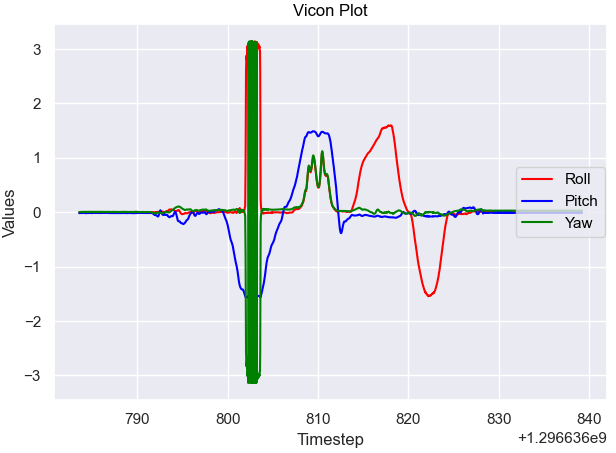
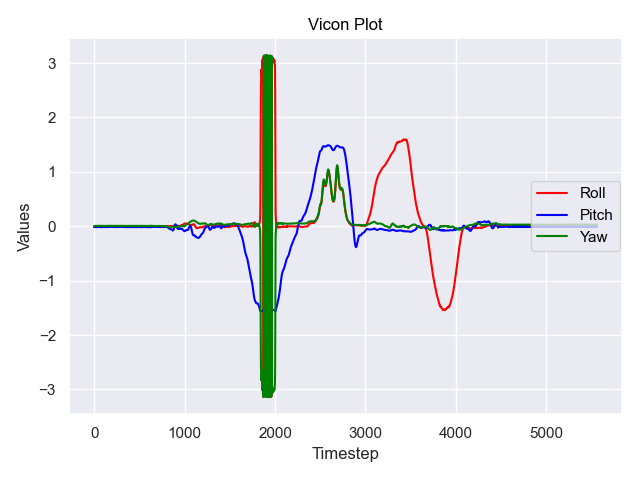
stuff

diff --git a/CS-6501_Behl/algorithm/hw2_p2_data/estimate_rot.py b/CS-6501_Behl/algorithm/hw2_p2_data/estimate_rot.py
@@ -30,14 +30,13 @@ def estimate_rot(data_num=1):
 
     rotation_matrices = vicon['rots']
     T_vicon = vicon['ts']
-
     # your code goes here
 
     # b)
         # plot vicon
     vicon_plot, roll, pitch, yaw = plotting_utils.plot_vicon_data(rotation_matrices, T_vicon)
-    # vicon_plot.show()
-    calibrate_sensors(accel, gyro, imu['ts'], rotation_matrices, T_vicon[0])
+    vicon_plot.show()
+    calibrate_sensors(accel, gyro, imu['ts'], T_vicon[0], roll, pitch, yaw)
 
     return None
 
@@ -45,7 +44,7 @@ def estimate_rot(data_num=1):
     # return roll,pitch,yaw
 
 # b)
-def calibrate_sensors(accel, gyro, imu_T, rotation_matrices, vicon_T):
+def calibrate_sensors(accel, gyro, imu_T, vicon_T, roll, pitch, yaw):
     imu_timesteps = imu_T[0]
     # plot the data
     # vicon_plot, roll, pitch, yaw = plotting_utils.plot_vicon_data(rotation_matrices = rotation_matrices, T = vicon_T)
@@ -53,13 +52,14 @@ def calibrate_sensors(accel, gyro, imu_T, rotation_matrices, vicon_T):
     gyro_plot.show()
 
     Ax, Ay, Az, Wx, Wy, Wz = helpful_utils.parse_data(accel, gyro)
-    
-    # calibrate the sensors at during stationary period
-    best_param = calibrate_accelerometer(Ax, Ay, Az, rotation_matrices, vicon_T, imu_timesteps) 
-    print(best_param)
+
+    accel_params = calibrate_accelerometer(Ax, Ay, Az, roll, pitch, yaw)
+    print(accel_params)
+    calibrate_gyroscope(roll, pitch, yaw, Wx, Wy, Wz, vicon_T)
+    set_times = np.arange(len(Ax))
         
     # accel_plot = plotting_utils.plot_accelerometer(Ax, Ay, Az, imu_T[0], conversion_param=best_param, transformed=True)
-    orientation_plot = plotting_utils.plot_orientations(Ax, Ay, Az, imu_T[0], best_param)
+    orientation_plot = plotting_utils.plot_orientations(Ax, Ay, Az, set_times, accel_params)
     # looking at the graph, the drone seems to be in stationary state with linear or angular acceleration
     # Therefore, the bias, would simply be the sequence of numbers in the first part of graph
 
@@ -71,33 +71,43 @@ def calibrate_sensors(accel, gyro, imu_T, rotation_matrices, vicon_T):
     return None
 
 # use least-squares fitting for parameter estimation
-def calibrate_accelerometer(Ax, Ay, Az, rotation_matrices, vicon_timesteps, imu_timesteps):
+def calibrate_accelerometer(Ax, Ay, Az, roll, pitch, yaw):
 
     # initial setup
-    vicon_interpolated = helpful_utils.interpolate_rotations(rotation_matrices = rotation_matrices, vicon_T = vicon_timesteps, imu_T = imu_timesteps)
 
-    g_vector = np.array([0, 0, -9.81]) # gravity vector
-
-    true_Ax = []
-    true_Ay = []
-    true_Az = []
-
-    for timestep in range(len(imu_timesteps)):
-        ground_truth = np.matmul(vicon_interpolated[:, :, timestep], g_vector.T)
-
-        true_Ax.append(ground_truth[0])
-        true_Ay.append(ground_truth[1])
-        true_Az.append(ground_truth[2])
-    
-    true_Ax = np.array(true_Ax)
-    true_Ay = np.array(true_Ay)
-    true_Az = np.array(true_Az)
-
+    # 1. Calibrate bias of ax and ay using stationary period (:700)
     beta_x = np.mean(Ax[:700])
     beta_y = np.mean(Ay[:700])
-    beta_z = np.mean(Az[:700])
+    beta_z = np.mean(Az[1900:2000]) # where the x-axis = g
+
+    # print(beta_x, beta_y, beta_z)
     
-    best_param = least_squares(net_force_error, [1, 1, 1], args = (Ax[700:], Ay[700:], Az[700:], true_Ax[700:], true_Ay[700:], true_Az[700:], beta_x, beta_y, beta_z))
+    # 2. Compute the sensitivities
+    average_z = np.mean(Az[:700])
+    alpha_z = (average_z - beta_z) * (3300/1023)
+    
+    average_y = np.mean(Ay[3700:4100])
+    alpha_y = (average_y - beta_y) * (3300/1023)
+
+    average_x = np.mean(Ax[1900:2000])
+    alpha_x = (average_x - beta_x) * (3300/1023)
+
+    
+    print(alpha_x, alpha_y, alpha_z)
+
+    # best_params = least_squares(magnitude_residual, [100, 100, 100, beta_x], args = (Ax[:700], Ay[:700], Az[:700], beta_x, beta_y))
+    # 2. Calibrate sensitivity of ax and ay using the dynamic portion of the data
+    # sum_y = 0
+    # for i in range(10):
+    #     random_idx = np.random.choice(np.arange(1800, 4100)) # pick random point from dynamic portion
+    #     ay = - 9.81 * np.sin(roll[random_idx])
+    #     sensitivity_test_point = (3300 * (Ay[random_idx] - beta_y)) / (ay * 1023)
+    #     sum_y += sensitivity_test_point
+
+    # alpha_y = sum_y / 10
+    # print(beta_x, beta_y, alpha_y)
+   
+    
 
     # # get the average of the stationary period of each linear acceleration
     # beta_x = np.average(Ax[:stationary_period])
@@ -110,27 +120,57 @@ def calibrate_accelerometer(Ax, Ay, Az, rotation_matrices, vicon_timesteps, imu_
     # best_params = results["x"]
     # best_params = np.concatenate((best_params, np.array([beta_x, beta_y, beta_z])))
 
-    return np.concatenate((best_param["x"], [beta_x], [beta_y], [beta_z]))
+    return np.array([alpha_x, beta_x, alpha_y, beta_y, alpha_z, beta_z])
 
-def calibrate_gyroscope():
-    
+def calibrate_gyroscope(roll, pitch, yaw, Wx, Wy, Wz, vicon_T):
+
+    d_wx = np.gradient(roll, 1)
+    d_wy = np.gradient(pitch, 1)
+    d_wz = np.gradient(yaw, 1)
+    print(max(d_wx))
+    plt.plot(np.arange(len(d_wx)), d_wx, label = "X")
+    plt.plot(np.arange(len(d_wx)), d_wy, label = "Y")
+    plt.plot(np.arange(len(d_wx)), d_wz, label = "Z")
+
+    plt.legend()
+
+    plt.show()
+
+
     return None
 
-# helper functions
-def net_force_error(parameters, Ax, Ay, Az, true_Ax, true_Ay, true_Az, beta_x, beta_y, beta_z): # these are the raw ax, ay, and az
-    
-    alpha_x, alpha_y, alpha_z = parameters
 
-    convert_Ax = -helpful_utils.convert_raw_to_value(Ax, alpha_x, beta_x)
-    convert_Ay = -helpful_utils.convert_raw_to_value(Ay, alpha_y, beta_y)
-    convert_Az = helpful_utils.convert_raw_to_value(Az, alpha_z, beta_z)
 
-    # error = np.concatenate([true_Ax - convert_Ax, true_Ay - convert_Ay, true_Az - convert_Az])
-    mag = np.sqrt(convert_Ax**2 + convert_Ay**2 + convert_Az**2)
-    avg_mag = np.mean(mag)
-    error = np.sqrt((avg_mag - 9.81)**2)
-    
+def magnitude_residual(params, Ax, Ay, Az, beta_x, beta_y):
+
+    alpha_x, alpha_y, alpha_z, beta_z = params
+    num_timesteps = len(Ax)
+    magnitudes = []
+
+    for timestep in range(num_timesteps):
+        ax = helpful_utils.convert_raw_to_value(Ax[timestep], alpha_x, beta_x)
+        ay = helpful_utils.convert_raw_to_value(Ay[timestep], alpha_y, beta_y)
+        magnitudes.append(np.sqrt(ax**2 + ay**2 + 9.81**2))
+
+    avg_mag = (np.array(magnitudes) - 9.81) ** 2
+    error = np.sum(avg_mag)
+
     return error
+
+def calibrate_z(params, Az, stationary_period = 700):
+    alpha_z, beta_z = params
+
+    num_timesteps = len(Az)
+
+    az = helpful_utils.convert_raw_to_value(raw = az, alpha = alpha_z, beta = beta_z)
+
+    mag = np.sqrt(az**2)
+    error = np.sqrt((mag - 9.81)**2)
+
+
+
+
+
 
 # call the function
 estimate_rot()

diff --git a/CS-6501_Behl/algorithm/hw2_p2_data/plotting_utils.py b/CS-6501_Behl/algorithm/hw2_p2_data/plotting_utils.py
@@ -12,6 +12,7 @@ import helpful_utils
 def plot_vicon_data(rotation_matrices, T):
     quaternion = Quaternion()
     num_timesteps = T.shape[1]
+    timesteps = np.arange(num_timesteps)
 
     roll = []
     pitch = []
@@ -30,9 +31,9 @@ def plot_vicon_data(rotation_matrices, T):
 
     vicon_plot = (
         so.Plot()
-        .add(so.Line(color = "red"), x = T[0], y = roll, label = "Roll")
-        .add(so.Line(color = "blue"), x = T[0], y = pitch, label = "Pitch")
-        .add(so.Line(color = "green"), x = T[0], y = yaw, label = "Yaw")
+        .add(so.Line(color = "red"), x = timesteps, y = roll, label = "Roll")
+        .add(so.Line(color = "blue"), x = timesteps, y = pitch, label = "Pitch")
+        .add(so.Line(color = "green"), x = timesteps, y = yaw, label = "Yaw")
         .label(
             x = "Timestep",
             y = "Values",
@@ -95,14 +96,14 @@ def plot_accelerometer(Ax, Ay, Az, T, conversion_param = [1, 2, 3, 4, 5, 6], tra
 
 def plot_orientations(Ax, Ay, Az, T, best_params):
 
-    alpha_x, alpha_y, alpha_z, beta_x, beta_y, beta_z = best_params
+    alpha_x, beta_x, alpha_y, beta_y, alpha_z, beta_z = best_params
     phi = []
     theta = []
 
     # conversion
     for timestep in range(len(T)):
-        ax = -helpful_utils.convert_raw_to_value(Ax[timestep], alpha = alpha_x, beta = beta_x)
-        ay = -helpful_utils.convert_raw_to_value( Ay[timestep], alpha = alpha_y, beta = beta_y)
+        ax = helpful_utils.convert_raw_to_value(Ax[timestep], alpha = alpha_x, beta = beta_x)
+        ay = -helpful_utils.convert_raw_to_value(Ay[timestep], alpha = alpha_y, beta = beta_y)
         az = helpful_utils.convert_raw_to_value(Az[timestep], alpha = alpha_z, beta = beta_z)
 
         phi_val, theta_val = helpful_utils.get_roll_and_pitch_from_acceleration(ax, ay, az)
@@ -151,3 +152,19 @@ def plot_gyroscope(gyro, T):
     )
 
     return gyro_plot, Wx, Wy, Wz
+
+def compare_graphs(pred, true, title_name):
+    timesteps = np.arange(len(pred))
+
+    comparison_plot = (
+        so.Plot()
+        .add(so.Line(color = "red"), x = timesteps, y = true, label = "True")
+        .add(so.Line(color = "blue"), x = timesteps, y = pred, label = "Calibrated")
+        .label(
+            x = "Timesteps",
+            y = "Values",
+            title = title_name
+        )
+    )
+
+    return comparison_plot

diff --git a/CS-6501_Behl/algorithm/hw2_p2_data/helpful_utils.py b/CS-6501_Behl/algorithm/hw2_p2_data/helpful_utils.py
@@ -31,26 +31,24 @@ def parse_data(accel, gyro):
 
     return np.array(Ax), np.array(Ay), np.array(Az), np.array(Wx), np.array(Wy), np.array(Wz)
 
-# interpolate values
-def interpolate_rotations(rotation_matrices, vicon_T, imu_T):
-    interpolate_func = interpolate.interp1d(vicon_T, rotation_matrices, axis = 2, fill_value='extrapolate', kind = "nearest")
-    return interpolate_func(imu_T)
-
 # get roll and pitch
 def get_roll_and_pitch_from_acceleration(ax, ay, az):
-    g = 9.81
 
-    phi = math.asin(np.clip(ay/g, -1, 1))
-    theta = math.atan(ax/az)
-    # phi = np.arcsin(ay, az)  # Roll
-    # theta = np.arctan2(-ax, np.sqrt(ay**2 + az**2))
+    phi = np.arctan2(-ay, -az)
+    theta = math.asin(ax, 9.81)
+    # phi = np.arcsin(ay, 9.81)  # Roll
+    # theta = np.arctan2(ay/ az)
 
     return phi, theta
 
 # converts a single value to 
-def convert_raw_to_value(raw, alpha, beta):
-    K = (3300 * 9.81) / (1023)
-    value = (raw - beta) * K / alpha
+def convert_raw_to_value(raw, alpha, beta, is_gyro = False):
+    K = (3300) / (1023)
+
+    if is_gyro:
+        K = (3300 * math.pi) / (1023 * 180)
+
+    value = (raw - beta) * (K / alpha)    
 
     return value
 
@@ -61,13 +59,9 @@ def convert_rotation_matrix_to_euler(rotation_matrix):
 
     return gamma, beta, alpha
 
-# get rotation matrix
-# def get_rotation_matrix(rotation_matrices, idx):
+def get_average_sensitivity_from_datapoints(dynamic_period = [2000, 4100], num_of_samples = 3, beta = 512, roll = [], pitch = [], yaw = []):
+    sum = 0
 
-#     rotation_matrix = np.zeros(shape = (3, 3))
-
-#     for i in range(3):
-#         for j in range(3):
-#             rotation_matrix[i][j] = rotation_matrices[i][j][idx]
-
-#     return rotation_matrix
+    for i in range(num_of_samples):
+        random_idx = np.random.choice(np.arange(dynamic_period[0], dynamic_period[1]))
+        a += -9.81 * np.sin()
